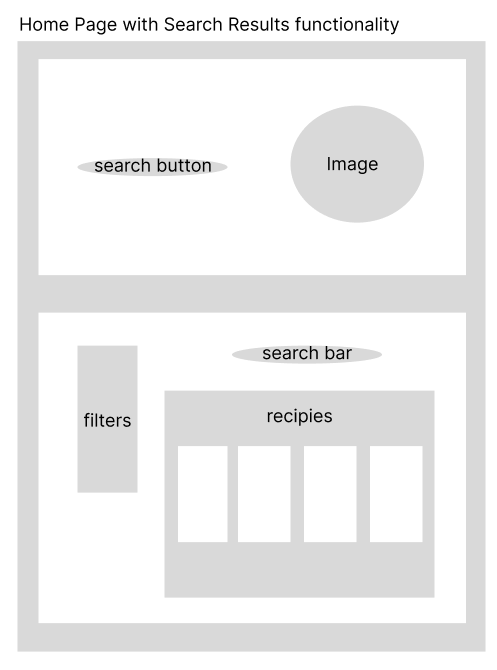
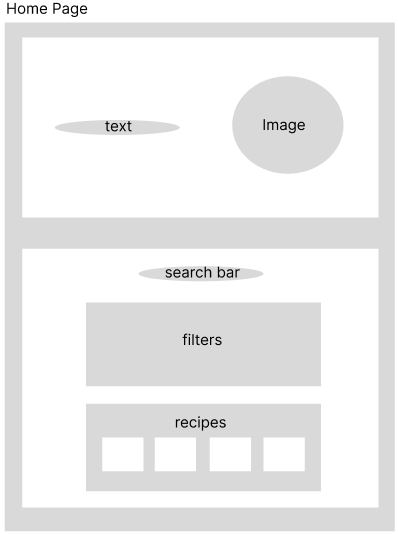
update mockups, minor styling changes across pages and components

diff --git a/src/components/Footer/Footer.scss b/src/components/Footer/Footer.scss
@@ -11,5 +11,15 @@ padding: 3rem;
 &__note{
     color: $white;
     @include flex-position(center);
-}
+
+    @include font-config (1rem, 0.6rem, 400);
+
+    @include small-mobile {
+      @include font-config (1.25rem, 1rem, 400)
+    }
+  
+    @include mobile{
+      @include font-config (1.5rem, 1.5rem, 400)
+    }
+  }
 }

diff --git a/src/components/Footer/Footer.jsx b/src/components/Footer/Footer.jsx
@@ -5,7 +5,7 @@ import React from 'react'
 function Footer() {
   return (
     <div className="footer">
-        <h3 className="footer__note">Taste Match brings creativity to your table</h3>
+        <h2 className="footer__note">Taste Match brings creativity to your table</h2>
     </div>
   )
 }

diff --git a/src/pages/HomePage/HomePage.scss b/src/pages/HomePage/HomePage.scss
@@ -52,14 +52,14 @@
   }
 
   &__keywords {
-    padding-bottom: 1rem;
+    padding-bottom: 1.7rem;
     font-weight: 600;
     text-align: center;
   }
 
   &__search-container {
     @include flex-position(center);
-    padding-bottom: 1rem;
+    padding-bottom: 1.4rem;
   }
 
   &__search {

diff --git a/src/styles/partials/_global.scss b/src/styles/partials/_global.scss
@@ -57,7 +57,7 @@ h2 {
   }
 
   @include tablet{
-    @include font-config (1.75rem, 1.75rem, 400)
+    @include font-config (1.75rem, 1.9rem, 400)
   }
 }
 

diff --git a/src/pages/RecipeDetailsPage/RecipeDetailsPage.jsx b/src/pages/RecipeDetailsPage/RecipeDetailsPage.jsx
@@ -2,6 +2,7 @@
 import { useState, useEffect } from "react";
 import "./RecipeDetailsPage.scss";
 
+
 function RecipeDetailsPage() {
   return (
     <>

diff --git a/src/components/Allergies/Allergies.scss b/src/components/Allergies/Allergies.scss
@@ -25,6 +25,7 @@
     top: 0.15rem;
   }
 
+
   &__title {
     font-weight: 600;
     padding-bottom: 1rem;
